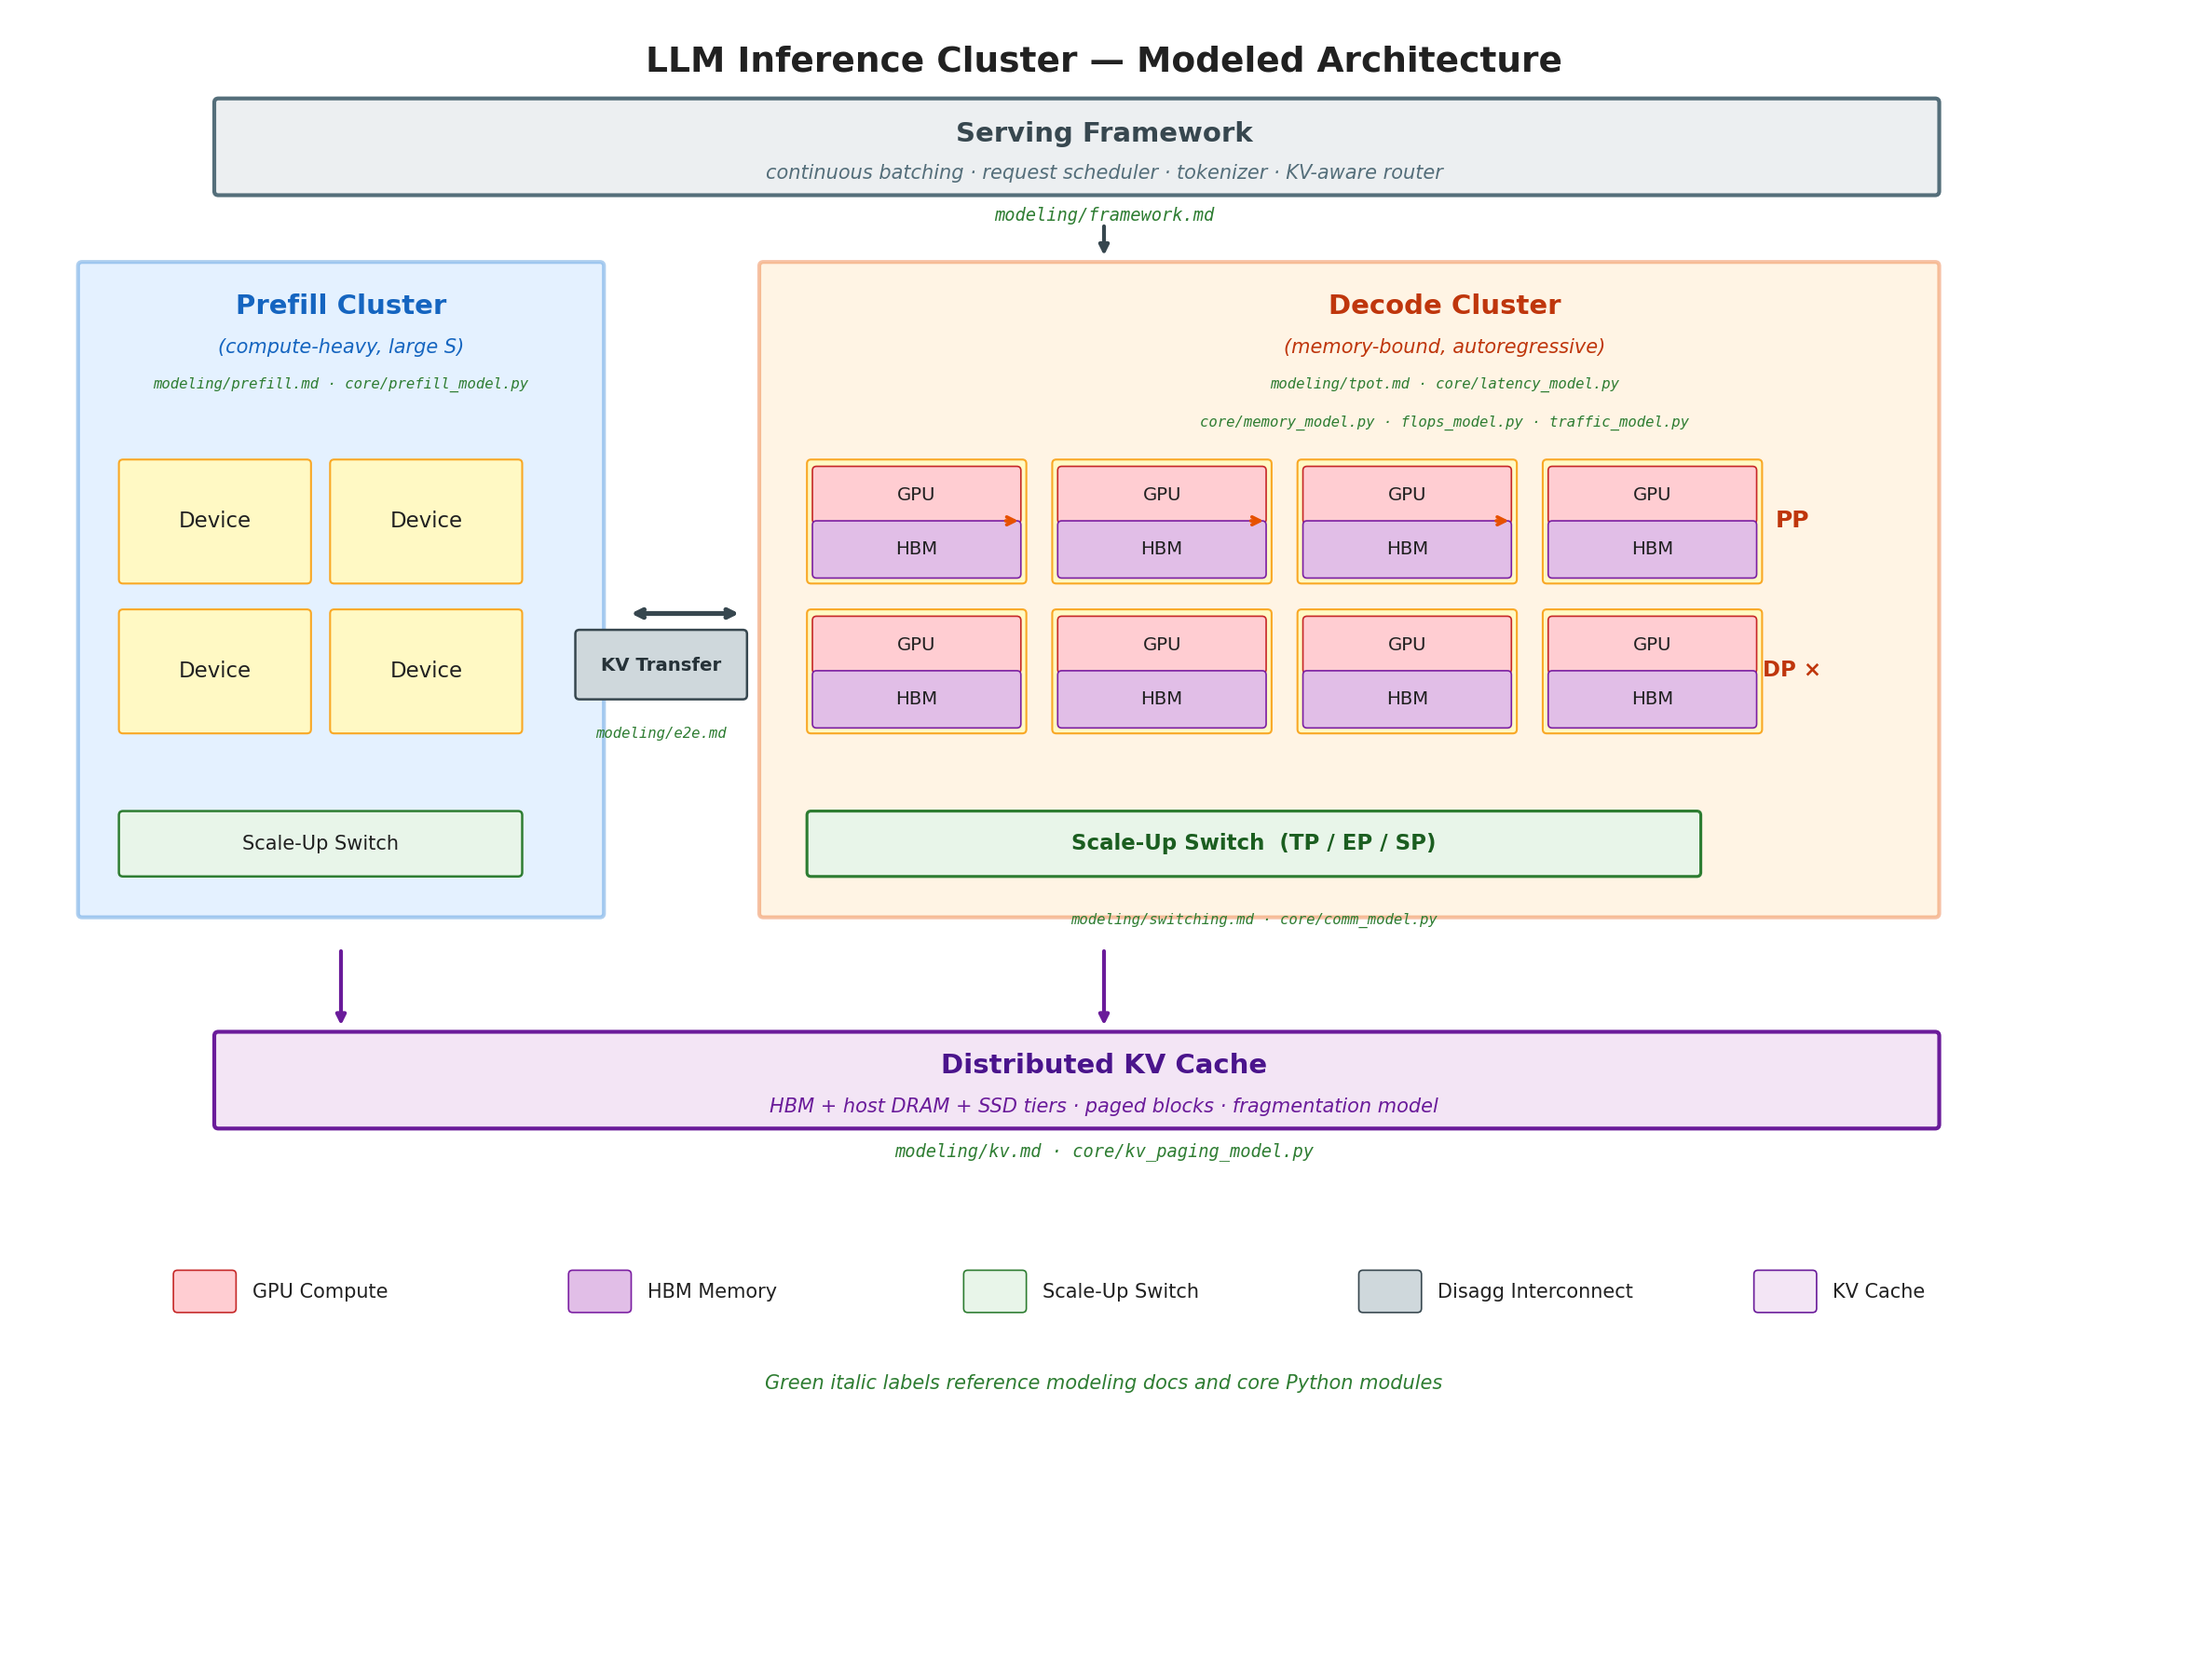
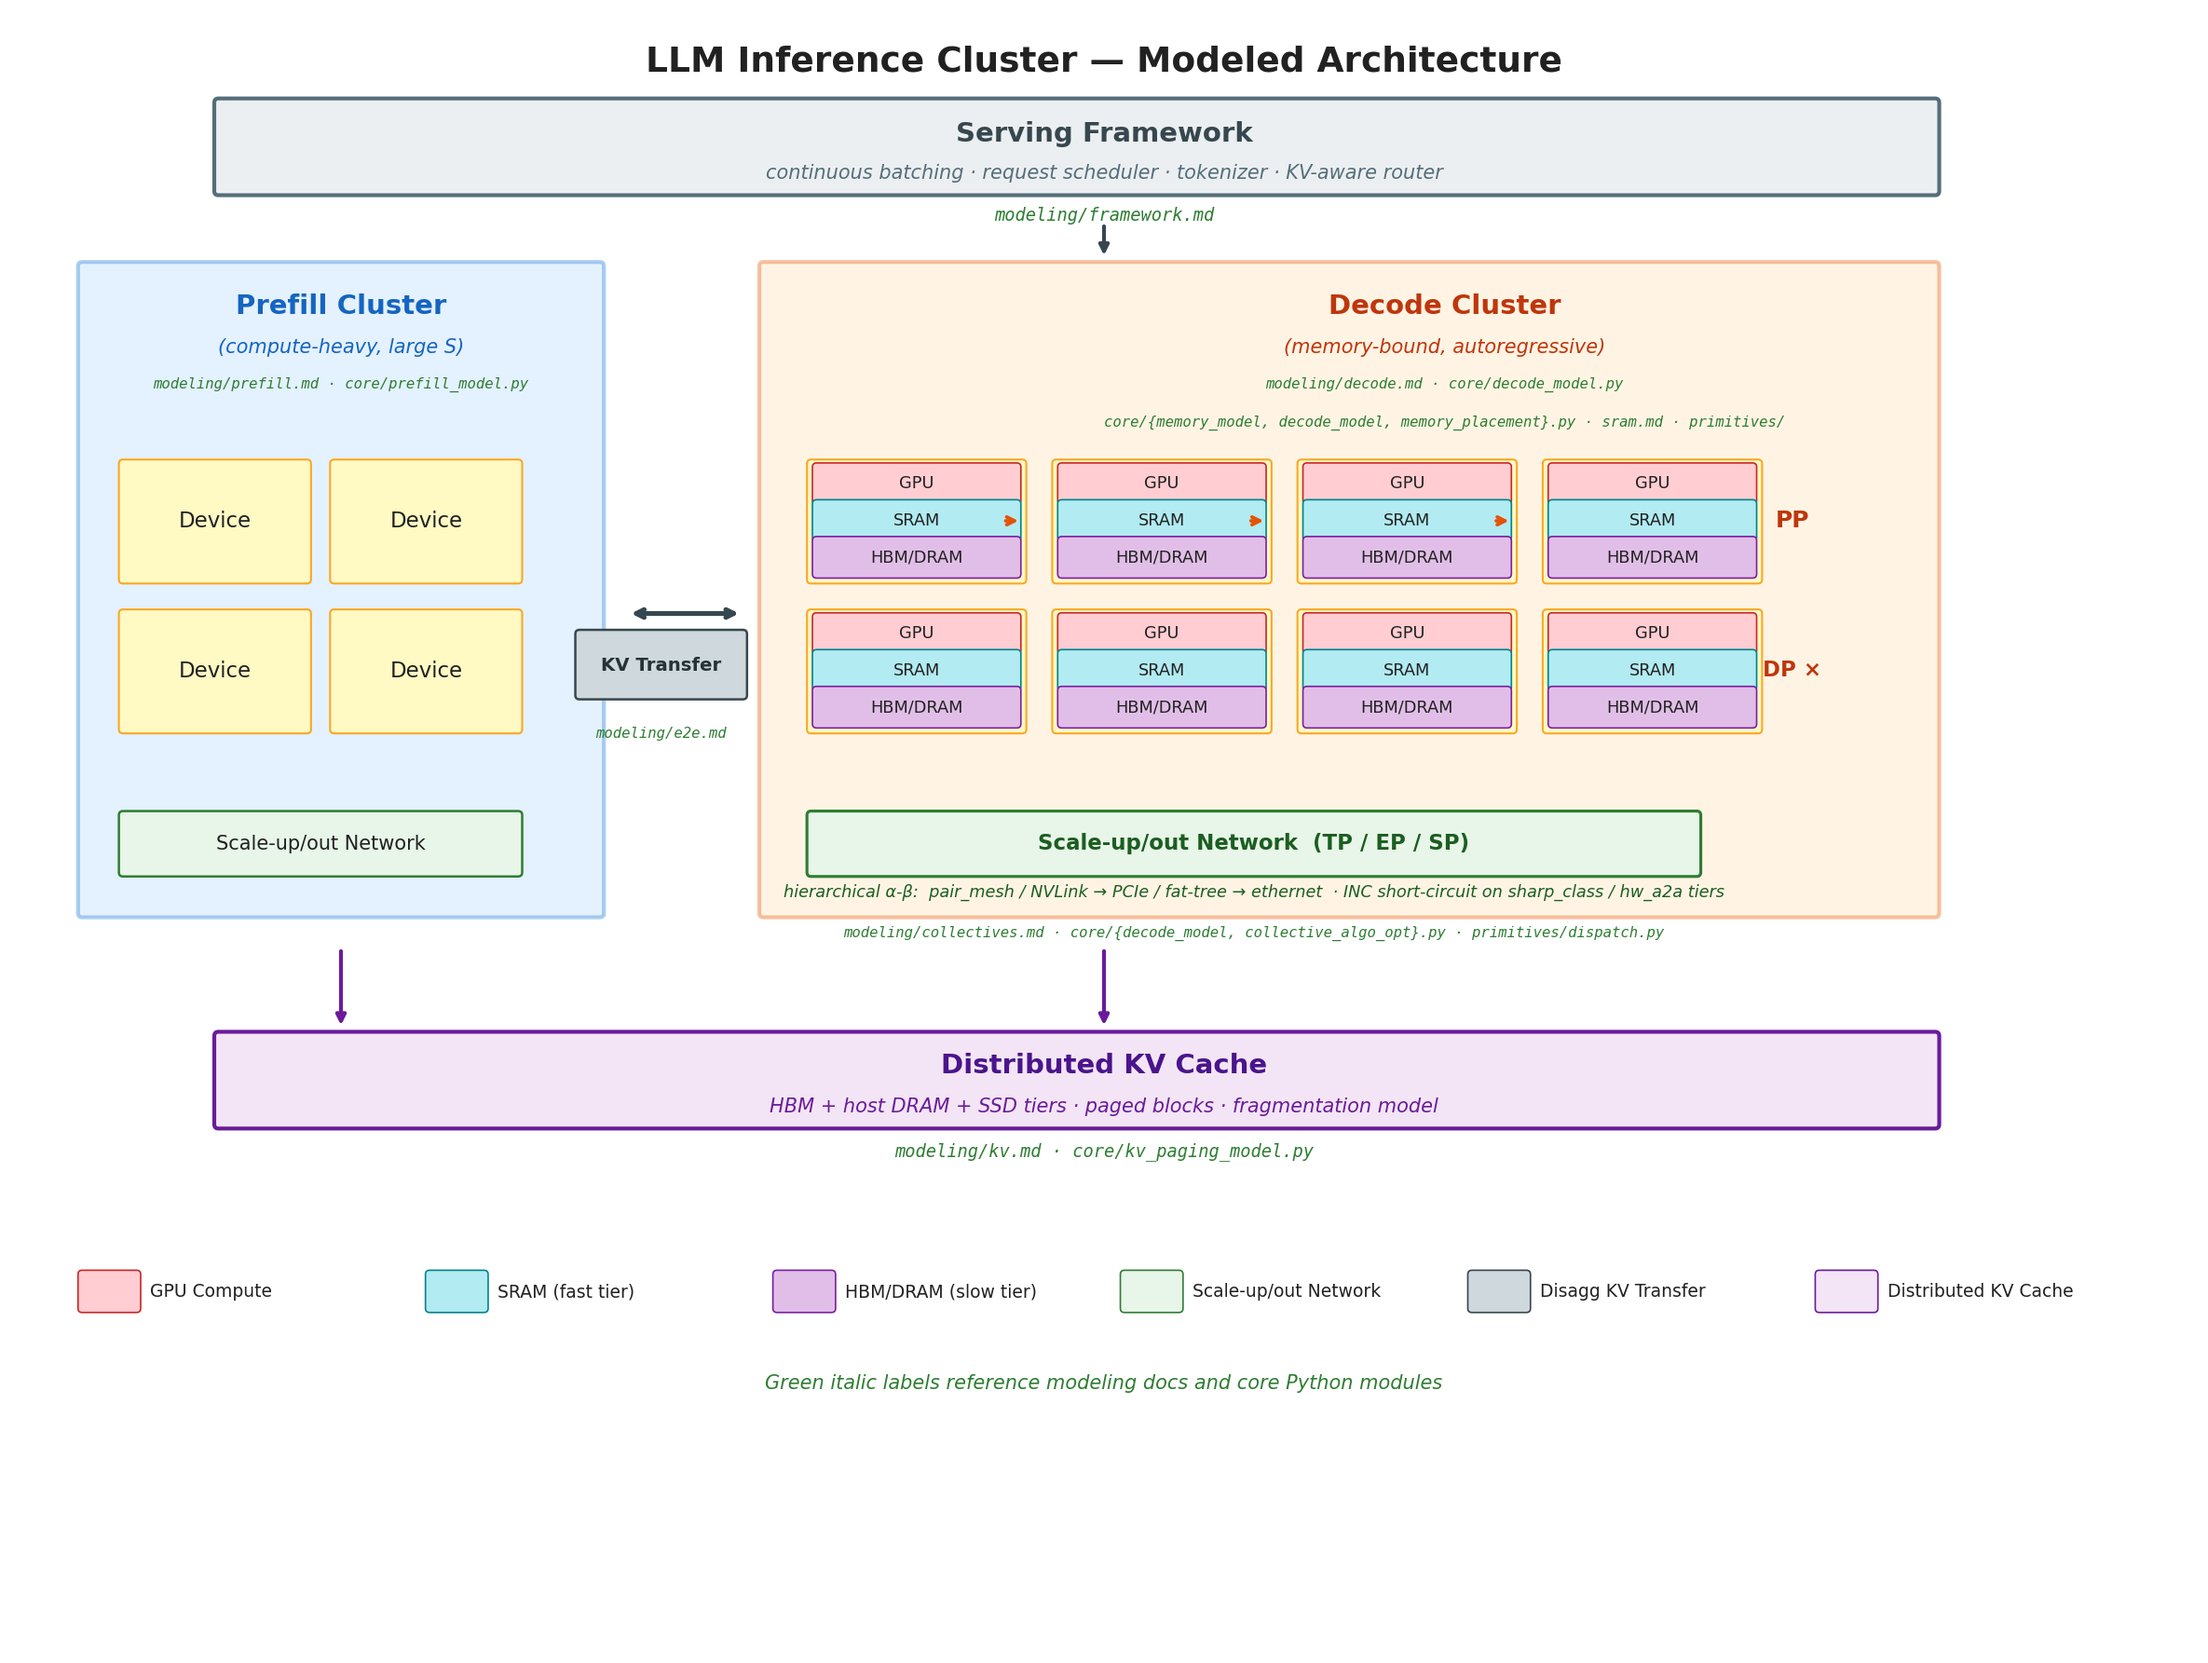
docs(diagram): add SRAM tier + scale-up/out extension to cluster architecture
Updates assets/cluster_architecture.png to reflect the multi-tier memory
hierarchy and the renamed scale-up/out network from the README updates:

- Each decode device now stacks 3 tiers: GPU compute · SRAM (fast tier,
  near multi-TB/s on Groq / d-Matrix; on-die L1/L2 on conventional GPUs)
  · HBM/DRAM (slow main memory, also covers LPDDR5 / GDDR / etc.).
- Scale-up Switch → Scale-up/out Network throughout the diagram, with a
  new subtitle showing the canonical hierarchical chain
  (pair_mesh / NVLink → PCIe / fat-tree → ethernet) and the INC short-
  circuit note on sharp_class / hw_a2a tiers.
- Legend gains an "SRAM (fast tier)" entry and renames "HBM Memory" →
  "HBM/DRAM (slow tier)" for inclusivity (LPDDR5 main memory on d-Matrix
  is modeled in the same tier slot).
- Decode-cluster module references updated: now lists
  core/{memory_model, decode_model, memory_placement}.py + sram.md +
  primitives/. Scale-up/out network references add collective_algo_opt.py
  and primitives/dispatch.py.

The corresponding gen_arch_diagram.py source file is updated alongside
the PNG so the diagram remains regeneratable.

diff --git a/scripts/gen_arch_diagram.py b/scripts/gen_arch_diagram.py
@@ -20,6 +20,7 @@ C_DECODE = "#FFE0B2"
 C_SWITCH = "#E8F5E9"
 C_DEVICE = "#FFF9C4"
 C_HBM = "#E1BEE7"
+C_SRAM = "#B2EBF2"
 C_GPU = "#FFCDD2"
 C_INTERCO = "#CFD8DC"
 C_KV = "#F3E5F5"
@@ -74,8 +75,8 @@ ref_text(2.4, 9.28, "modeling/prefill.md · core/prefill_model.py", fontsize=7.5
 for dx, dy in [(0.8, 7.85), (2.35, 7.85), (0.8, 6.75), (2.35, 6.75)]:
     rounded_box(dx, dy, 1.35, 0.85, C_DEVICE, label="Device", fontsize=11, lw=1.0, ec="#F9A825")
 
-# Prefill scale-up switch
-rounded_box(0.8, 5.7, 2.9, 0.42, C_SWITCH, label="Scale-Up Switch", fontsize=10, lw=1.2, ec="#2E7D32")
+# Prefill scale-up/out network
+rounded_box(0.8, 5.7, 2.9, 0.42, C_SWITCH, label="Scale-up/out Network", fontsize=10, lw=1.2, ec="#2E7D32")
 
 # ═══════════════════════════════════════════════════════════════════
 # Decode Cluster (right)
@@ -87,18 +88,27 @@ ax.text(10.5, 9.55, "(memory-bound, autoregressive)", ha="center", va="center",
         fontsize=10, color="#BF360C", fontstyle="italic")
 ref_text(10.5, 9.28, "modeling/decode.md · core/decode_model.py", fontsize=7.5)
 
-# Decode devices — 4 top, 4 bottom, tight spacing
+# Decode devices — 4 top, 4 bottom; each device is a 3-tier memory stack:
+# GPU compute (top) · SRAM fast tier (middle) · HBM/DRAM slow tier (bottom).
+# The SRAM tier is what SRAM-augmented architectures (Groq, d-Matrix) expose
+# at multi-TB/s; on a conventional GPU it represents on-die L1/L2.
 dw, dh = 1.55, 0.85
 top_y, bot_y = 7.85, 6.75
 x_starts = [5.85, 7.65, 9.45, 11.25]
+band_h = 0.245
+gap = 0.025
 for row_y in [top_y, bot_y]:
     for dx in x_starts:
         rounded_box(dx, row_y, dw, dh, C_DEVICE, lw=1.0, ec="#F9A825")
-        rounded_box(dx + 0.04, row_y + 0.44, dw - 0.08, 0.36, C_GPU, label="GPU", fontsize=9.5, lw=0.8, ec="#C62828")
-        rounded_box(dx + 0.04, row_y + 0.04, dw - 0.08, 0.36, C_HBM, label="HBM", fontsize=9.5, lw=0.8, ec="#7B1FA2")
+        gpu_y  = row_y + dh - gap - band_h
+        sram_y = gpu_y - gap - band_h
+        hbm_y  = sram_y - gap - band_h
+        rounded_box(dx + 0.04, gpu_y,  dw - 0.08, band_h, C_GPU,  label="GPU",     fontsize=8.5, lw=0.8, ec="#C62828")
+        rounded_box(dx + 0.04, sram_y, dw - 0.08, band_h, C_SRAM, label="SRAM",    fontsize=8.5, lw=0.8, ec="#00838F")
+        rounded_box(dx + 0.04, hbm_y,  dw - 0.08, band_h, C_HBM,  label="HBM/DRAM", fontsize=8.5, lw=0.8, ec="#7B1FA2")
 
 # Device-level references
-ref_text(10.5, 9.0, "core/memory_model.py · decode_model.py · primitives/", fontsize=7.5)
+ref_text(10.5, 9.0, "core/{memory_model, decode_model, memory_placement}.py · sram.md · primitives/", fontsize=7.5)
 
 # PP connections (horizontal arrows between top-row devices)
 for dx in [7.4, 9.2, 11.0]:
@@ -111,11 +121,14 @@ ax.text(13.05, 8.28, "PP", ha="center", va="center",
 ax.text(13.05, 7.18, "DP ×", ha="center", va="center",
         fontsize=11, fontweight="bold", color="#BF360C")
 
-# Decode scale-up switch
+# Decode scale-up/out network — shown as the canonical hierarchical chain
+# (innermost first). Single-tier deployments collapse to one element.
 rounded_box(5.85, 5.7, 6.5, 0.42, C_SWITCH, lw=1.5, ec="#2E7D32")
-ax.text(9.1, 5.91, "Scale-Up Switch  (TP / EP / SP)", ha="center", va="center",
+ax.text(9.1, 5.91, "Scale-up/out Network  (TP / EP / SP)", ha="center", va="center",
         fontsize=11, fontweight="bold", color="#1B5E20")
-ref_text(9.1, 5.35, "modeling/collectives.md · core/decode_model.py", fontsize=7.5)
+ax.text(9.1, 5.55, "hierarchical α-β:  pair_mesh / NVLink → PCIe / fat-tree → ethernet  · INC short-circuit on sharp_class / hw_a2a tiers",
+        ha="center", va="center", fontsize=8.5, color="#1B5E20", fontstyle="italic")
+ref_text(9.1, 5.25, "modeling/collectives.md · core/{decode_model, collective_algo_opt}.py · primitives/dispatch.py", fontsize=7.5)
 
 # ═══════════════════════════════════════════════════════════════════
 # KV Transfer interconnect (between clusters)
@@ -147,16 +160,17 @@ ref_text(8, 3.65, "modeling/kv.md · core/kv_paging_model.py", fontsize=9)
 # ═══════════════════════════════════════════════════════════════════
 legend_y = 2.5
 legend_items = [
-    (C_GPU, "#C62828", "GPU Compute"),
-    (C_HBM, "#7B1FA2", "HBM Memory"),
-    (C_SWITCH, "#2E7D32", "Scale-Up Switch"),
-    (C_INTERCO, "#37474F", "Disagg Interconnect"),
-    (C_KV, "#6A1B9A", "KV Cache"),
+    (C_GPU,    "#C62828", "GPU Compute"),
+    (C_SRAM,   "#00838F", "SRAM (fast tier)"),
+    (C_HBM,    "#7B1FA2", "HBM/DRAM (slow tier)"),
+    (C_SWITCH, "#2E7D32", "Scale-up/out Network"),
+    (C_INTERCO, "#37474F", "Disagg KV Transfer"),
+    (C_KV,     "#6A1B9A", "Distributed KV Cache"),
 ]
 for i, (fc, ec, label) in enumerate(legend_items):
-    lx = 1.2 + i * 2.9
+    lx = 0.5 + i * 2.55
     rounded_box(lx, legend_y, 0.4, 0.25, fc, lw=0.8, ec=ec)
-    ax.text(lx + 0.55, legend_y + 0.12, label, ha="left", va="center", fontsize=10, color=C_TEXT)
+    ax.text(lx + 0.5, legend_y + 0.12, label, ha="left", va="center", fontsize=9, color=C_TEXT)
 
 ax.text(8, 1.95, "Green italic labels reference modeling docs and core Python modules",
         ha="center", va="center", fontsize=10, color=C_REF, fontstyle="italic")
